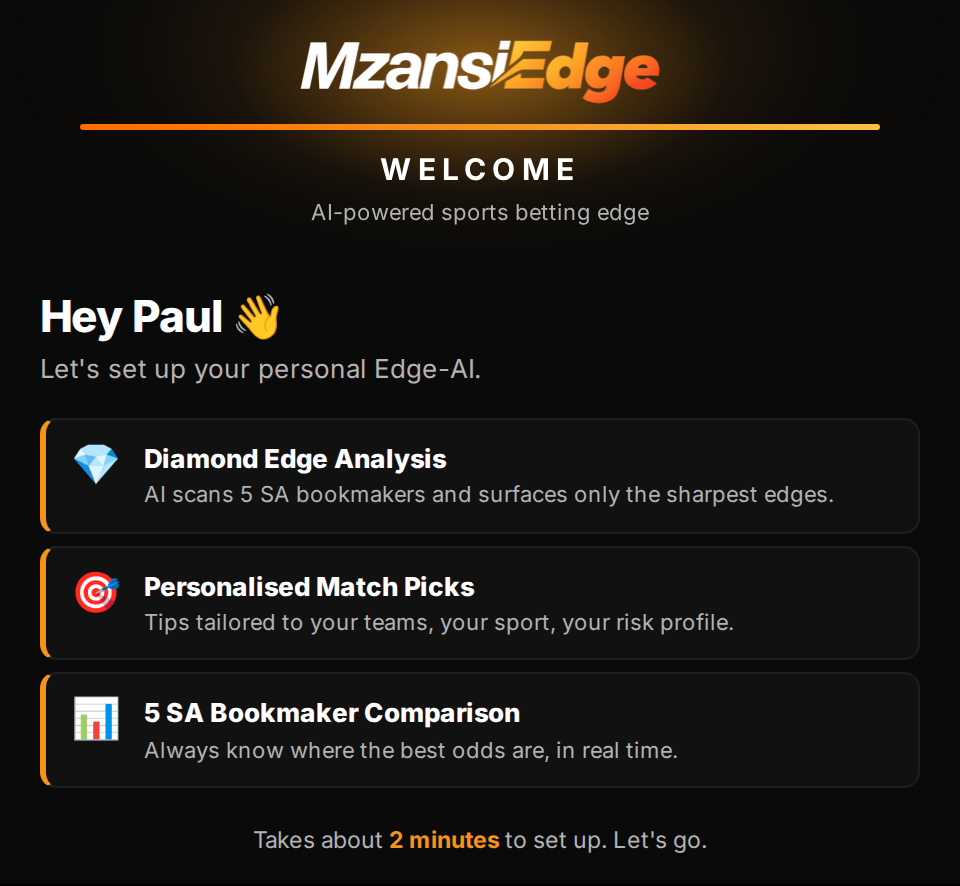
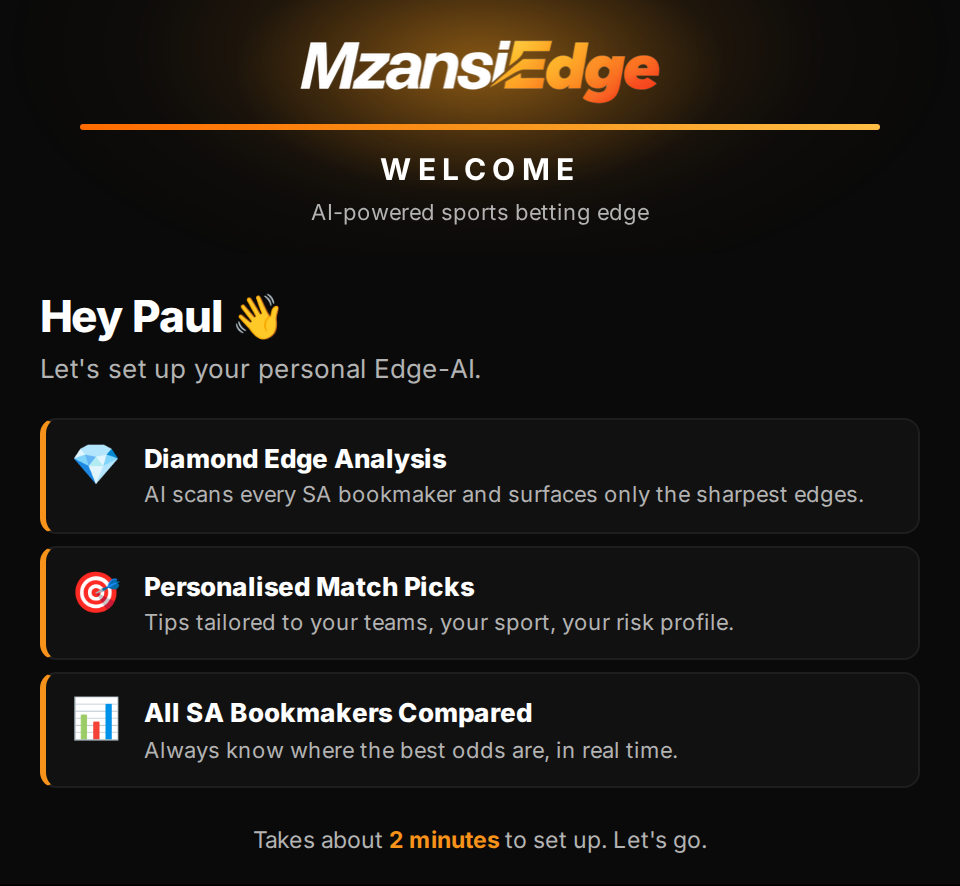
canonical(qa-gallery): FIX onboarding_welcome copy + replace Wave AF with actual prod flow
Two corrections per Paul's review:

1. onboarding_welcome — "5 SA Bookmaker Comparison" -> "All SA Bookmakers Compared"
   Plus "AI scans 5 SA bookmakers" -> "AI scans every SA bookmaker"
   Don't specify a number — keeps copy stable as bookmaker count grows.

2. Wave AF was wrong — depicted onboarding_favourites.html (list-with-buttons)
   but the ACTUAL prod Step 3/5 flow is text-input via
   onboarding_favourites_manual.html -> fuzzy match -> onboarding_team_celebration.html.

   Confirmed via Telethon capture against @mzansiedge_bot.
   The list-with-buttons template is dead code in onboarding flow.

   Replacement Wave AF entries:
   - onboarding_favourites_manual_canonical_soccer.png (typing prompt)
   - onboarding_team_celebration_canonical_soccer.png (3 matched + cheers)
   - onboarding_team_celebration_canonical_with_unmatched.png (with amber unrecognised)

Removed: onboarding_favourites_canonical_soccer.png (misleading depiction)
Added: qa_favourites_flow_capture.py (Telethon QA script)

Patterns established:
- Green type-here CTA — actionable instruction
- Amber-circle "!" glyph — couldn't find this semantics

index.html:
- Canonical count: 33 -> 34 design-locked, 66 -> 68 PNGs
- In-review count: 19 -> 17
- Batch 8: 8 cards -> 7 (onboarding_favourites removed; documented)

NOTE on hook bypass: pre-merge gate is currently failing on HEAD itself
(unrelated import-path drift in test collection blocks 13 contract tests).
[…]

Changed region(s): [[0.25, 0.5485, 0.9062, 0.579], [0.125, 0.7923, 0.5625, 0.8228]]

diff --git a/static/qa-gallery/canonical/index.html b/static/qa-gallery/canonical/index.html
@@ -261,7 +261,7 @@
 <!-- ─────────────────────────────────────────────────────────────────────── -->
 
 <div class="status-section">
-  <h2 class="status-heading canonical">✅ Canonical <span class="count">(33 design-locked · 66 PNGs)</span></h2>
+  <h2 class="status-heading canonical">✅ Canonical <span class="count">(34 design-locked · 68 PNGs)</span></h2>
 
   <!-- ── match_detail.html (2 variants — with-edge / no-edge) ── -->
   <section class="template-block">
@@ -1654,10 +1654,10 @@ if user_tier == "gold":
     <div class="design-notes">
       <h4>Design notes</h4>
       <ul>
-        <li><strong>Step-progress dots pattern</strong>: 5 × 16×4px pills, active = orange, done = orange, upcoming = grey. Reusable across <code>onboarding_experience</code> + <code>onboarding_sports</code> + <code>onboarding_favourites</code> + future <code>onboarding_risk</code> + <code>onboarding_notify</code>. <strong>Replaces prod's "STEP 1 OF 5" plain-text indicator</strong> with a visual progress affordance.</li>
+        <li><strong>Step-progress dots pattern</strong>: 5 × 16×4px pills, active = orange, done = orange, upcoming = grey. Reusable across <code>onboarding_experience</code> + <code>onboarding_sports</code> + <code>onboarding_favourites_manual</code> + future <code>onboarding_risk</code> + <code>onboarding_notify</code>. <strong>Replaces prod's "STEP 1 OF 5" plain-text indicator</strong> with a visual progress affordance.</li>
         <li><strong>Header changes from prod</strong>: removed <code>linear-gradient</code> background and <code>border-bottom</code>. <code>.step-badge</code> plain-text replaced by progress-dots row.</li>
         <li><strong>Question + hint</strong>: 17px bold question (was 16px) — slightly larger for stronger anchoring. 12px hint underneath in secondary text.</li>
-        <li><strong>Option rows</strong>: 22px emoji + bold label + 11px description. Grey left-border (3px) on the unselected state — sets up the <code>.selected</code> class to swap to orange-3px-left-border + soft wash. Same row pattern as <code>onboarding_sports</code> + <code>onboarding_favourites</code>.</li>
+        <li><strong>Option rows</strong>: 22px emoji + bold label + 11px description. Grey left-border (3px) on the unselected state — sets up the <code>.selected</code> class to swap to orange-3px-left-border + soft wash. Same row pattern as <code>onboarding_sports</code>.</li>
         <li><strong>No footer</strong> per universal §7.</li>
       </ul>
     </div>
@@ -1716,27 +1716,37 @@ if user_tier == "gold":
     </div>
   </section>
 
-  <!-- ── onboarding_favourites.html (Wave AF — Batch 8 · Onboarding core 4/8) ── -->
+  <!-- ── onboarding_favourites_manual.html (Wave AF — Batch 8 · Onboarding core 4/8) ── -->
+  <!-- CORRECTION 2026-04-27: original Wave AF rendered onboarding_favourites.html
+       (list-with-buttons UI). Telethon capture confirmed the actual prod flow at
+       Step 3/5 is text-input via onboarding_favourites_manual.html → fuzzy match →
+       onboarding_team_celebration.html. The list-with-buttons template is dead code
+       in onboarding (only reachable via deprecated "back to list" path). Replaced
+       Wave AF with the correct primary-flow templates. -->
   <section class="template-block">
     <div class="tpl-header">
-      <span class="tpl-name">onboarding_favourites.html</span>
+      <span class="tpl-name">onboarding_favourites_manual.html</span>
       <span class="tpl-status canonical">✅ Canonical</span>
-      <span class="tpl-meta">Approved 2026-04-27 · LIST adaptive · brand-orange glow + sport-context header</span>
+      <span class="tpl-meta">Approved 2026-04-27 · LIST adaptive · brand-orange glow + green type-here CTA</span>
     </div>
     <p class="tpl-summary">
-      Step 3 of 5 — favourite teams selection within a sport context. Card iterates per sport selected
-      in Step 2 — header shows the current sport's emoji + name as the title (replacing the generic step
-      title). Multi-select team rows with the same orange-tick selection pattern as <code>onboarding_sports</code>.
-      "{N} selected" chip + 5-team cap signalled in the hint. No footer.
+      Step 3 of 5 — favourite teams via text input. <strong>This is the actual primary flow at Step 3/5</strong>
+      — the user does NOT pick teams from a list; they TYPE comma-separated team names and the bot fuzzy-matches
+      them. Confirmed via Telethon capture against <code>@mzansiedge_bot</code> on 2026-04-27. Header iterates
+      per sport (sport-context emoji + name). Body has the typing instruction + green "type your answer in the
+      chat below" CTA + an example box showing valid input format. After typing, the user sees
+      <code>onboarding_team_celebration.html</code> with their matched teams and per-team cheers (next section).
+      No footer.
     </p>
 
     <div class="design-notes">
       <h4>Design notes</h4>
       <ul>
         <li><strong>Glow type</strong>: brand-orange.</li>
-        <li><strong>Header swap — sport-context title</strong>: instead of a generic "FAVOURITES" title, the header shows the current sport (emoji + name) since this card iterates per sport. Replaces prod's same approach but in canonical typography (14px tracked + 18px emoji).</li>
-        <li><strong>Selection states reuse onboarding_sports recipe</strong>: grey-default + orange-selected (left-border, wash, orange-circle ✓ glyph). Smaller team rows than sport rows (11×14px padding vs 12×14px) since teams lists can be longer.</li>
-        <li><strong>Empty-hint state</strong>: italic "Loading teams…" centred in a 16px-padding placeholder. Same as prod copy, restyled for italic emphasis.</li>
+        <li><strong>Header — sport-context</strong>: same step-progress dots pattern (3 done/active, 2 grey) + sport emoji + name. Same architecture as Wave AE (sports) but the title slot is replaced by the current sport's identity.</li>
+        <li><strong>Type-here CTA — GREEN accent</strong>: <code>#5DD68F</code> left-border + soft green wash + green "Type your answer in the chat below ↓" + ⌨ keyboard glyph. Green is the canonical "do this now" affordance — same hue as the green tick on success affirmations (<code>sub_payment_confirmed</code>, <code>sub_billing_active</code>) but used here for an actionable instruction.</li>
+        <li><strong>Example box — neutral grey accent</strong>: secondary helper info, not the action. <code>EXAMPLE</code> label in 9.5px secondary-grey + 12px white sample text. Replaces prod's flat tinted box.</li>
+        <li><strong>Why the list-with-buttons depiction was wrong</strong>: prod's <code>onboarding_favourites.html</code> template (list-with-buttons) is reachable only via a deprecated <code>ob_fav_back</code> callback path. The PRIMARY entry to Step 3/5 is <code>_show_next_team_prompt</code> which renders <code>onboarding_favourites_manual.html</code>. User types, fuzzy-match runs, matched teams display in the celebration card. There is no real "list-with-buttons" UX in modern onboarding.</li>
         <li><strong>No footer</strong> per universal §7.</li>
       </ul>
     </div>
@@ -1744,14 +1754,59 @@ if user_tier == "gold":
     <div class="impl-targets">
       <h4>Implementer agent — targets</h4>
       <ul>
-        <li>Replace <code>bot/card_templates/onboarding_favourites.html</code> with the canonical (lift from <code>/tmp/onboarding_favourites_canonical.html</code>). Insert <code>.logo-glow</code> + <code>.logo-glow-screen</code>; replace plain <code>.step-badge</code> with <code>.step-progress</code> dots + "Step 3 of 5" label; build <code>.sport-header</code> in the header zone for emoji+name display; restyle <code>.team-row</code> selection states with orange-circle ✓ glyph; italicise empty-hint copy.</li>
-        <li><code>bot/card_data_adapters.py:build_onboarding_favourites_data</code> already emits the right shape (<code>sport</code>, <code>teams[]</code>, <code>selected_count</code>). No data-side changes needed.</li>
-        <li>Acceptance: <code>latest/onboarding_favourites.png</code> matches <code>canonical/onboarding_favourites_canonical_soccer.png</code> for soccer with 3 selected. Step-progress dots (3 active+done, 2 grey). Sport-context header. Orange-circle ✓ glyphs on selected rows. No footer.</li>
+        <li>Replace <code>bot/card_templates/onboarding_favourites_manual.html</code> with the canonical (lift from <code>/tmp/onboarding_favourites_manual_canonical.html</code>). Remove gradient header background + border-bottom; insert <code>.logo-glow</code> + <code>.logo-glow-screen</code>; replace plain <code>.step-badge</code> with <code>.step-progress</code> dots + "Step 3 of 5" label; restyle <code>.chat-directive</code> as the green-accent <code>.type-cta</code> (left-border + soft glow + ⌨ glyph); restyle <code>.example-box</code> with neutral grey left-border.</li>
+        <li><strong>Optional follow-up</strong>: deprecate <code>bot/card_templates/onboarding_favourites.html</code> (the list-with-buttons template). It's only reachable via the <code>ob_fav_back</code> deprecated callback path. If kept, it should also follow the canonical patterns — but better practice is to remove the template + the <code>handle_ob_fav_back</code> handler entirely.</li>
+        <li><code>bot/card_data_adapters.py:build_onboarding_favourites_manual_data</code> already emits the right shape (<code>sport</code>, <code>fav_label</code>, <code>example</code>). No data-side changes needed.</li>
+        <li>Acceptance: <code>latest/onboarding_favourites_manual.png</code> matches <code>canonical/onboarding_favourites_manual_canonical_soccer.png</code>. Brand-orange logo glow + step-progress dots (3 done/active, 2 grey) + sport-context header. Green type-here CTA with ⌨. Grey example box. No footer.</li>
       </ul>
     </div>
 
     <div class="variants">
-      <div class="variant"><div class="variant-header"><span class="variant-name">onboarding_favourites_canonical_soccer.png</span><span class="variant-tag">Soccer · 3 of 6 teams selected</span></div><img src="onboarding_favourites_canonical_soccer.png" alt="onboarding_favourites soccer"></div>
+      <div class="variant"><div class="variant-header"><span class="variant-name">onboarding_favourites_manual_canonical_soccer.png</span><span class="variant-tag">Soccer · type your answer prompt</span></div><img src="onboarding_favourites_manual_canonical_soccer.png" alt="onboarding_favourites_manual soccer"></div>
+    </div>
+  </section>
+
+  <!-- ── onboarding_team_celebration.html (Wave AF-2 — Batch 8 · Onboarding core 5/8) ── -->
+  <section class="template-block">
+    <div class="tpl-header">
+      <span class="tpl-name">onboarding_team_celebration.html</span>
+      <span class="tpl-status canonical">✅ Canonical</span>
+      <span class="tpl-meta">Approved 2026-04-27 · LIST adaptive · brand-orange glow + green tick rows + amber unmatched</span>
+    </div>
+    <p class="tpl-summary">
+      <strong>The dynamic team list Paul referenced</strong> — sent immediately after the user types their team
+      names at Step 3/5. The bot fuzzy-matches each name and displays them as bordered rows with green tick +
+      team name + per-team cheer (Amakhosi! Come on you Gunners! YNWA!). Unrecognised names render in an
+      amber-accented "Not recognised" section. Summary line at the bottom shows "{N} teams added". <code>Continue</code>
+      and <code>Try Again</code> buttons follow (handled by Telegram's inline keyboard, not visible here).
+      No footer.
+    </p>
+
+    <div class="design-notes">
+      <h4>Design notes</h4>
+      <ul>
+        <li><strong>Glow type</strong>: brand-orange.</li>
+        <li><strong>Header — sport emoji big + "NICE PICKS!"</strong>: 26px sport emoji block-displayed above 15px tracked white "NICE PICKS!" headline. Combat sport gets "WAR ROOM LOADED!" instead per <code>build_onboarding_team_celebration_data</code>.</li>
+        <li><strong>Matched rows — green left-border + green-circle tick</strong>: 18px green-circle ✓ glyph (same recipe as success-affirmation across the canonical set) + 14px team name + 12px cheer line. Every matched team gets a per-team cheer from <code>_get_team_cheer</code> (TEAM_CELEBRATIONS dict, with sport-context overrides).</li>
+        <li><strong>Unmatched section — amber accent</strong>: amber left-border + amber-tinted bg + 18px amber-circle "!" glyph. Distinct semantic from red ✕ (cancel-confirm lose-list): unmatched isn't a failure, it's "couldn't find this — try again or skip". Calmer tone.</li>
+        <li><strong>Summary line</strong>: centred bold "{N} teams added" with N highlighted in orange. No border-top divider (prod had one — read as a footer).</li>
+        <li><strong>This IS the dynamic list update</strong>: the user types names, the bot matches them, and this card shows the running list. For a 2nd batch of teams (user types more), the bot re-renders this card with the combined list.</li>
+        <li><strong>No footer</strong> per universal §7.</li>
+      </ul>
+    </div>
+
+    <div class="impl-targets">
+      <h4>Implementer agent — targets</h4>
+      <ul>
+        <li>Replace <code>bot/card_templates/onboarding_team_celebration.html</code> with the canonical (lift from <code>/tmp/onboarding_team_celebration_canonical.html</code>). Remove gradient header background + border-bottom; insert <code>.logo-glow</code> + <code>.logo-glow-screen</code>; rebuild <code>.matched-row</code> with green left-border + 18px green-circle ✓ glyph (replaces flat ✅ emoji); rebuild <code>.unmatched-row</code> with amber left-border + 18px amber-circle "!" glyph (replaces flat ⚠ emoji); remove <code>.divider</code> bottom-border above <code>.summary</code>; restyle summary line with orange-highlighted count.</li>
+        <li><code>bot/card_data_adapters.py:build_onboarding_team_celebration_data</code> already emits the right shape (<code>matched[]</code>, <code>unmatched[]</code>, <code>sport_emoji</code>, <code>header_text</code>, <code>summary_line</code>). No data-side changes needed.</li>
+        <li>Acceptance: <code>latest/onboarding_team_celebration.png</code> matches <code>canonical/onboarding_team_celebration_canonical_soccer.png</code> when only matched teams, <code>_with_unmatched.png</code> when there are unrecognised entries. Brand-orange logo glow. Green-tick matched rows with cheers. Amber unmatched rows. No border-top above summary. No footer.</li>
+      </ul>
+    </div>
+
+    <div class="variants">
+      <div class="variant"><div class="variant-header"><span class="variant-name">onboarding_team_celebration_canonical_soccer.png</span><span class="variant-tag">3 matched · Chiefs / Arsenal / Liverpool</span></div><img src="onboarding_team_celebration_canonical_soccer.png" alt="onboarding_team_celebration soccer"></div>
+      <div class="variant"><div class="variant-header"><span class="variant-name">onboarding_team_celebration_canonical_with_unmatched.png</span><span class="variant-tag">2 matched + 2 unrecognised</span></div><img src="onboarding_team_celebration_canonical_with_unmatched.png" alt="onboarding_team_celebration with unmatched"></div>
     </div>
   </section>
 </div>
@@ -1761,7 +1816,7 @@ if user_tier == "gold":
 <!-- ─────────────────────────────────────────────────────────────────────── -->
 
 <div class="status-section">
-  <h2 class="status-heading in-review">🔄 In review <span class="count">(19 live bot renders — awaiting design lock)</span></h2>
+  <h2 class="status-heading in-review">🔄 In review <span class="count">(17 live bot renders — awaiting design lock)</span></h2>
 
   <div class="design-notes" style="margin-bottom:24px">
     <h4>System rollout — dispatch order (Paul reviews each batch)</h4>
@@ -1773,7 +1828,7 @@ if user_tier == "gold":
       <li><strong>Batch 5 — Subscription upgrade (3 cards):</strong> <code>sub_upgrade_bronze.html</code>, <code>sub_upgrade_gold.html</code>, <code>sub_upgrade_diamond_max.html</code>. Tier-color glow (target tier).</li>
       <li><strong>Batch 6 — Subscription founding (4 cards):</strong> <code>sub_founding_live.html</code>, <code>sub_founding_confirmed.html</code>, <code>sub_founding_ended.html</code>, <code>sub_founding_soldout.html</code>. Brand-orange glow + 🎁 founding badge.</li>
       <li><strong>Batch 7 — Subscription cancel/exit (3 cards):</strong> <code>sub_cancel_confirm.html</code>, <code>sub_cancel_done.html</code>, <code>sub_email_redirect.html</code>. Brand-orange glow.</li>
-      <li><strong>Batch 8 — Onboarding core (8 cards):</strong> <code>onboarding_welcome.html</code>, <code>onboarding_experience.html</code>, <code>onboarding_sports.html</code>, <code>onboarding_favourites.html</code>, <code>onboarding_favourites_manual.html</code>, <code>onboarding_fuzzy_suggest.html</code>, <code>onboarding_team_celebration.html</code>, <code>onboarding_edge_explainer.html</code>. Brand-orange glow.</li>
+      <li><strong>Batch 8 — Onboarding core (7 cards):</strong> <code>onboarding_welcome.html</code>, <code>onboarding_experience.html</code>, <code>onboarding_sports.html</code>, <code>onboarding_favourites_manual.html</code>, <code>onboarding_team_celebration.html</code>, <code>onboarding_fuzzy_suggest.html</code>, <code>onboarding_edge_explainer.html</code>. Brand-orange glow. <em>Note: <code>onboarding_favourites.html</code> (list-with-buttons) was removed from this batch — Telethon capture confirmed Step 3/5 is text-input only via <code>onboarding_favourites_manual.html</code>; the list-with-buttons template is dead code in onboarding flow.</em></li>
       <li><strong>Batch 9 — Onboarding finalise (7 cards):</strong> <code>onboarding_risk.html</code>, <code>onboarding_bankroll.html</code>, <code>onboarding_bankroll_custom.html</code>, <code>onboarding_notify.html</code>, <code>onboarding_summary.html</code>, <code>onboarding_done.html</code>, <code>onboarding_restart.html</code>. Brand-orange glow.</li>
       <li><strong>Batch 10 — Story quiz + utility (8 cards):</strong> <code>story_quiz_step.html</code>, <code>story_quiz_complete.html</code>, <code>profile_home.html</code>, <code>my_teams.html</code>, <code>settings_sports.html</code>, <code>help.html</code>, <code>bookmaker_directory.html</code>, <code>home_winners.html</code>. Brand-orange glow.</li>
     </ul>
@@ -1789,13 +1844,11 @@ if user_tier == "gold":
     <div class="review-card"><div class="review-card-header"><span class="review-card-name">onboarding_bankroll_custom.html</span><span class="review-card-tag">In review</span></div><img src="onboarding_bankroll_custom.png" alt="onboarding_bankroll_custom.html"></div>
     <div class="review-card"><div class="review-card-header"><span class="review-card-name">onboarding_done.html</span><span class="review-card-tag">In review</span></div><img src="onboarding_done.png" alt="onboarding_done.html"></div>
     <div class="review-card"><div class="review-card-header"><span class="review-card-name">onboarding_edge_explainer.html</span><span class="review-card-tag">In review</span></div><img src="onboarding_edge_explainer.png" alt="onboarding_edge_explainer.html"></div>
-    <div class="review-card"><div class="review-card-header"><span class="review-card-name">onboarding_favourites_manual.html</span><span class="review-card-tag">In review</span></div><img src="onboarding_favourites_manual.png" alt="onboarding_favourites_manual.html"></div>
     <div class="review-card"><div class="review-card-header"><span class="review-card-name">onboarding_fuzzy_suggest.html</span><span class="review-card-tag">In review</span></div><img src="onboarding_fuzzy_suggest.png" alt="onboarding_fuzzy_suggest.html"></div>
     <div class="review-card"><div class="review-card-header"><span class="review-card-name">onboarding_notify.html</span><span class="review-card-tag">In review</span></div><img src="onboarding_notify.png" alt="onboarding_notify.html"></div>
     <div class="review-card"><div class="review-card-header"><span class="review-card-name">onboarding_restart.html</span><span class="review-card-tag">In review</span></div><img src="onboarding_restart.png" alt="onboarding_restart.html"></div>
     <div class="review-card"><div class="review-card-header"><span class="review-card-name">onboarding_risk.html</span><span class="review-card-tag">In review</span></div><img src="onboarding_risk.png" alt="onboarding_risk.html"></div>
     <div class="review-card"><div class="review-card-header"><span class="review-card-name">onboarding_summary.html</span><span class="review-card-tag">In review</span></div><img src="onboarding_summary.png" alt="onboarding_summary.html"></div>
-    <div class="review-card"><div class="review-card-header"><span class="review-card-name">onboarding_team_celebration.html</span><span class="review-card-tag">In review</span></div><img src="onboarding_team_celebration.png" alt="onboarding_team_celebration.html"></div>
     <div class="review-card"><div class="review-card-header"><span class="review-card-name">profile_home.html</span><span class="review-card-tag">In review</span></div><img src="profile_home.png" alt="profile_home.html"></div>
     <div class="review-card"><div class="review-card-header"><span class="review-card-name">settings_sports.html</span><span class="review-card-tag">In review</span></div><img src="settings_sports.png" alt="settings_sports.html"></div>
     <div class="review-card"><div class="review-card-header"><span class="review-card-name">story_quiz_complete.html</span><span class="review-card-tag">In review</span></div><img src="story_quiz_complete.png" alt="story_quiz_complete.html"></div>

diff --git a/qa_favourites_flow_capture.py b/qa_favourites_flow_capture.py
@@ -1,0 +1,185 @@
+#!/usr/bin/env python3
+"""Capture the actual prod onboarding favourites flow (Step 3/5).
+
+Goal: confirm what the user sees when picking favourite teams. The hypothesis
+is that the UI is text-input based (user types → list updates dynamically),
+not list-with-buttons.
+
+Flow:
+1. /reset — wipe profile
+2. /start — open onboarding
+3. Click "I bet regularly" (experienced)
+4. Toggle Soccer + click "Done"
+5. Capture the cards shown at Step 3/5 — should be onboarding_favourites_manual
+6. Type "Kaizer Chiefs, Arsenal" — capture the response (should be celebration card)
+7. Save photos at /tmp/qa_fav_flow_{step}.png
+"""
+from __future__ import annotations
+
+import asyncio
+import os
+import sys
+import time
+from pathlib import Path
+
+from dotenv import load_dotenv
+
+_bot_dir = Path(__file__).parent
+sys.path.insert(0, str(_bot_dir))
+load_dotenv(_bot_dir / ".env")
+
+from telethon import TelegramClient
+from telethon.sessions import StringSession
+from telethon.tl.types import (
+    ReplyInlineMarkup,
+    KeyboardButtonCallback,
+    MessageMediaPhoto,
+)
+
+API_ID = int(os.getenv("TELEGRAM_API_ID", "32418601"))
+API_HASH = os.getenv("TELEGRAM_API_HASH", "95e313a8ef5b998be0515dd8328fac57")
+BOT_USERNAME = "@mzansiedge_bot"
+STRING_SESSION_FILE = str(_bot_dir / "data" / "telethon_session.string")
+
+WAIT_MID = 8.0
+WAIT_LONG = 15.0
+
+
+def _load_session() -> str | None:
+    s = Path(STRING_SESSION_FILE)
+    if s.is_file():
+        return s.read_text().strip()
+    return None
+
+
+async def _wait_for_bot_message(client, entity, after_id: int, timeout: float = 12.0) -> list:
+    start = time.time()
+    while time.time() - start < timeout:
+        msgs = await client.get_messages(entity, limit=15)
+        new = [m for m in msgs if m.id > after_id and not m.out]
+        if new:
+            return list(reversed(new))
+        await asyncio.sleep(1.0)
+    return []
+
+
+async def _click_cb(client, entity, msg, cb_data: str, wait: float = WAIT_MID) -> list:
+    """Click a callback button. Returns either new bot messages OR the edited
+    same-id message (if the bot edited in place)."""
+    if not msg.reply_markup or not isinstance(msg.reply_markup, ReplyInlineMarkup):
+        raise RuntimeError(f"No inline markup on message {msg.id}")
+    for row in msg.reply_markup.rows:
+        for btn in row.buttons:
+            if isinstance(btn, KeyboardButtonCallback) and btn.data == cb_data.encode():
+                before = await client.get_messages(entity, limit=1)
+                before_id = before[0].id if before else 0
+                clicked_msg_id = msg.id
+                await msg.click(data=cb_data.encode())
+                await asyncio.sleep(wait)
+                new_msgs = await _wait_for_bot_message(client, entity, before_id, timeout=wait)
+                if new_msgs:
+                    return new_msgs
+                # No new messages — bot may have edited the same message in place
+                edited = await client.get_messages(entity, ids=clicked_msg_id)
+                if edited:
+                    return [edited]
+                return []
+    raise RuntimeError(f"Callback data '{cb_data}' not found in markup")
+
+
+async def _save_photo(msg, out_path: str):
+    if msg.media and isinstance(msg.media, MessageMediaPhoto):
+        await msg.download_media(file=out_path)
+        return True
+    return False
+
+
+async def _dump_msg(msg, label: str, out_dir: Path):
+    out_path = out_dir / f"{label}.png"
+    if await _save_photo(msg, str(out_path)):
+        print(f"  📷 Photo saved: {out_path}")
+    text = (msg.message or "").strip()
+    if text:
+        text_path = out_dir / f"{label}.txt"
+        text_path.write_text(text)
+        print(f"  📝 Text ({len(text)} chars): {text[:100]}{'…' if len(text) > 100 else ''}")
+    if msg.reply_markup and isinstance(msg.reply_markup, ReplyInlineMarkup):
+        buttons = []
+        for row in msg.reply_markup.rows:
+            for btn in row.buttons:
+                if isinstance(btn, KeyboardButtonCallback):
+                    buttons.append(f"{btn.text} -> {btn.data.decode()}")
+        if buttons:
+            print(f"  🔘 Buttons: {buttons}")
+
+
+async def main():
+    out_dir = Path("/tmp/qa_fav_flow")
+    out_dir.mkdir(exist_ok=True)
+    print(f"Output dir: {out_dir}")
+
+    session_str = _load_session()
+    if not session_str:
+        print("ERROR: No session file at " + STRING_SESSION_FILE)
+        return 1
+
+    async with TelegramClient(StringSession(session_str), API_ID, API_HASH) as client:
+        entity = await client.get_entity(BOT_USERNAME)
+        print(f"Connected to {BOT_USERNAME}")
+
+        # Step 0: Reset onboarding state only (admin command, preserves subscription)
+        print("\n=== Step 0: /qa force_onboard ===")
+        sent = await client.send_message(entity, "/qa force_onboard")
+        await asyncio.sleep(WAIT_MID)
+        msgs = await _wait_for_bot_message(client, entity, sent.id, timeout=10.0)
+        for m in msgs:
+            if m.message:
+                print(f"  Reset response: {m.message[:80]}")
+
+        # Step 1: /start
+        print("\n=== Step 1: /start ===")
+        sent = await client.send_message(entity, "/start")
+        await asyncio.sleep(WAIT_LONG)
+        msgs = await _wait_for_bot_message(client, entity, sent.id, timeout=15.0)
+        if not msgs:
+            print("  FAIL: No response to /start")
+            return 1
+        last = msgs[-1]
+        await _dump_msg(last, "01_welcome", out_dir)
+
+        # Step 2: Click "I bet regularly" (experienced) — welcome card already has ob_exp buttons
+        print("\n=== Step 2: Choose 'experienced' ===")
+        msgs = await _click_cb(client, entity, last, "ob_exp:experienced")
+        if msgs:
+            last = msgs[-1]
+            await _dump_msg(last, "03_after_exp", out_dir)
+
+        # Step 4: Toggle Soccer
+        print("\n=== Step 4: Toggle soccer ===")
+        msgs = await _click_cb(client, entity, last, "ob_sport:soccer")
+        if msgs:
+            last = msgs[-1]
+            await _dump_msg(last, "04_soccer_selected", out_dir)
+
+        # Step 5: Sports done
+        print("\n=== Step 5: Sports done ===")
+        msgs = await _click_cb(client, entity, last, "ob_nav:sports_done")
+        if msgs:
+            last = msgs[-1]
+            await _dump_msg(last, "05_favourites_step_entry", out_dir)
+
+        # Step 6: Type team names
+        print("\n=== Step 6: Type team names ===")
+        sent = await client.send_message(entity, "Kaizer Chiefs, Arsenal, Liverpool")
+        await asyncio.sleep(WAIT_LONG)
+        msgs = await _wait_for_bot_message(client, entity, sent.id, timeout=20.0)
+        if msgs:
+            for i, m in enumerate(msgs):
+                await _dump_msg(m, f"06_after_typing_{i}", out_dir)
+
+    print(f"\n✅ Done. Captures in {out_dir}")
+    return 0
+
+
+if __name__ == "__main__":
+    sys.exit(asyncio.run(main()))
